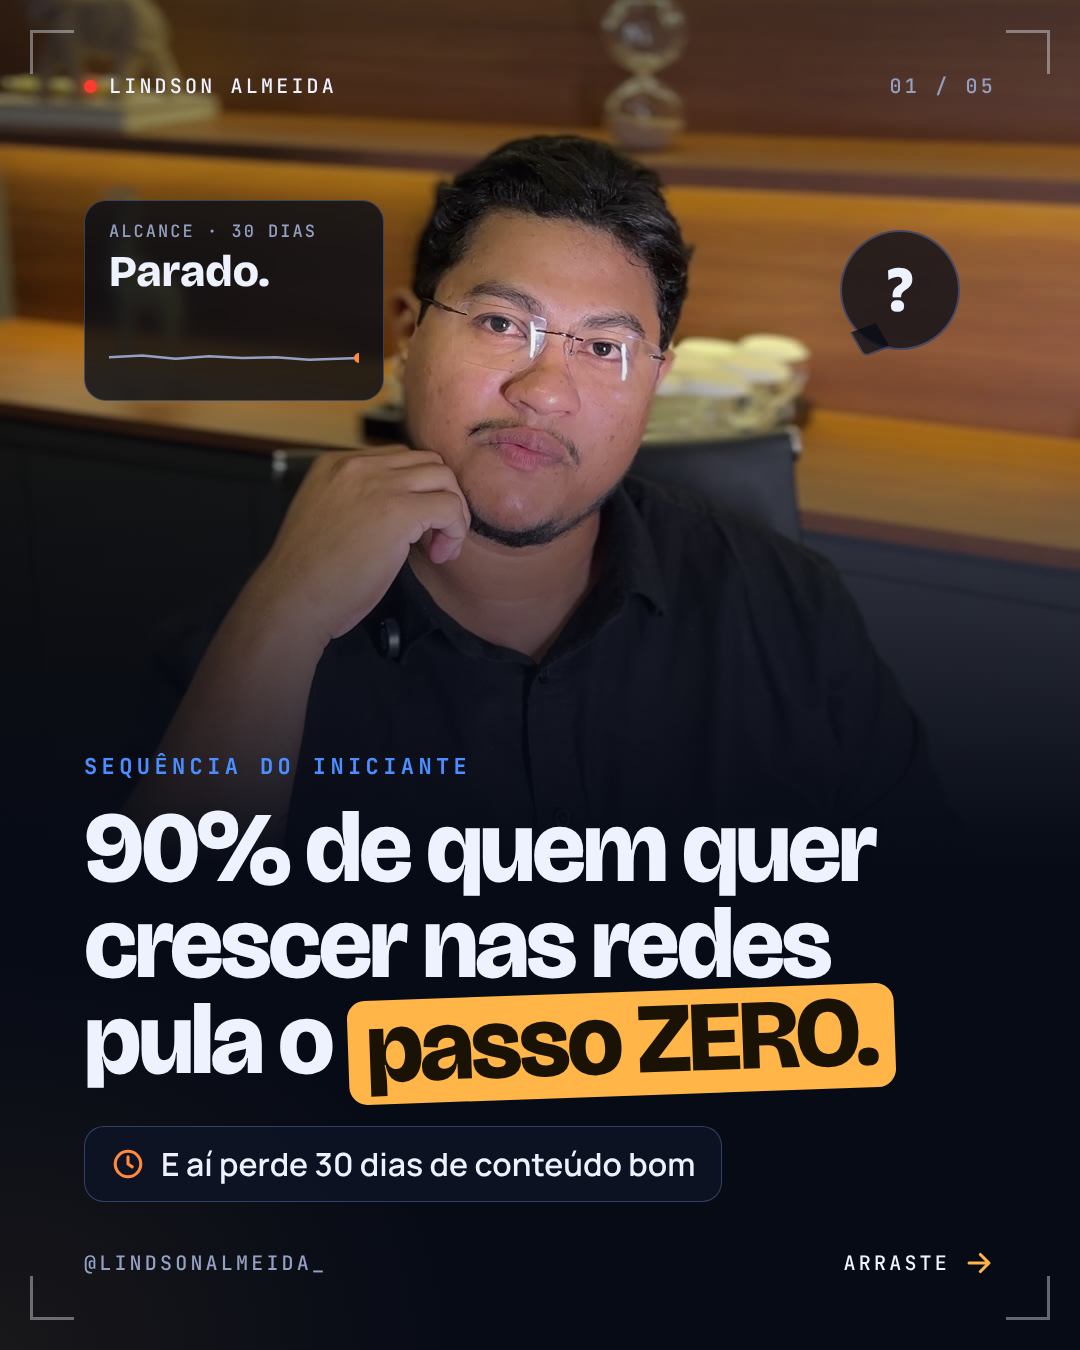
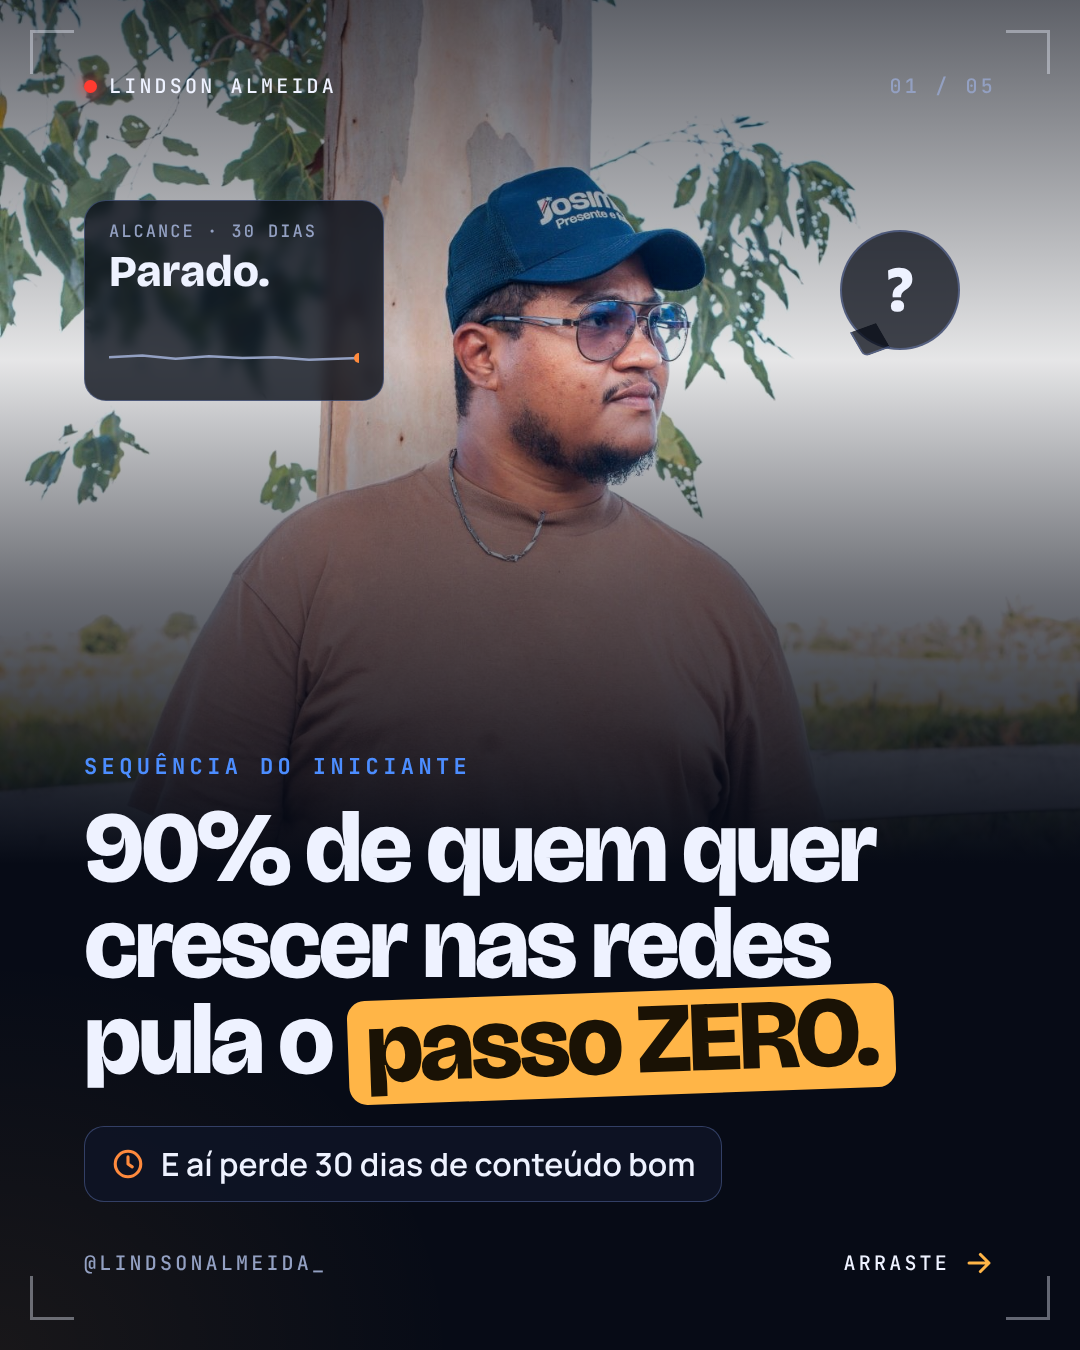
Carousel 01: use outdoor photos on cover and closing slides
Claude-Session: https://claude.ai/code/session_01ALzBWb67fmDAT6pS6iLeWq

diff --git a/conteudo/identidade-01/carrossel-01-sequencia-do-iniciante/fonte/carrossel.html b/conteudo/identidade-01/carrossel-01-sequencia-do-iniciante/fonte/carrossel.html
@@ -56,8 +56,8 @@
 
   /* ── 1 · Capa ── */
   .s1 .photo { height: 900px; }
-  .s1 .photo img { object-position: 50% 62%; filter: saturate(.85) contrast(1.05); }
-  .s1 .photo::after { background: linear-gradient(0deg, var(--ink) 4%, rgba(7,11,22,.55) 34%, rgba(7,11,22,.05) 62%, rgba(7,11,22,.5) 100%); }
+  .s1 .photo img { object-position: 50% 4%; filter: saturate(.9) contrast(1.05); }
+  .s1 .photo::after { background: linear-gradient(0deg, var(--ink) 4%, rgba(7,11,22,.6) 34%, rgba(7,11,22,.1) 60%, rgba(7,11,22,.65) 100%); }
   .s1 .body { justify-content: flex-end; }
   .s1 h1 { font-size: 100px; }
   .s1 .zero { display: inline-block; background: var(--sun); color: var(--sun-ink); padding: 0 18px 8px; border-radius: 18px; transform: rotate(-2deg); }
@@ -119,8 +119,8 @@
   /* ── 5 · Fechamento ── */
   .s5::before { background: radial-gradient(700px 620px at 50% 26%, rgba(47,208,122,.35), transparent 70%), radial-gradient(900px 700px at 100% 0%, rgba(76,141,255,.14), transparent 65%); }
   .s5 .photo { height: 900px; }
-  .s5 .photo img { object-position: 50% 26%; }
-  .s5 .photo::after { background: linear-gradient(0deg, var(--ink) 3%, rgba(7,11,22,.45) 30%, rgba(7,11,22,0) 55%), linear-gradient(180deg, rgba(47,208,122,.28), transparent 40%); }
+  .s5 .photo img { object-position: 27% 50%; }
+  .s5 .photo::after { background: linear-gradient(0deg, var(--ink) 3%, rgba(7,11,22,.45) 30%, rgba(7,11,22,0) 55%), linear-gradient(180deg, rgba(7,11,22,.55), transparent 30%); }
   .s5 .okchip { position: absolute; z-index: 3; left: 84px; top: 140px; display: inline-flex; align-items: center; gap: 14px; padding: 16px 24px; border-radius: 999px; background: rgba(7,11,22,.8); border: 2px solid var(--ok); font: 700 24px/1 var(--f-mono); letter-spacing: .12em; color: var(--ok); backdrop-filter: blur(6px); }
   .s5 .okchip svg { width: 28px; height: 28px; }
   .s5 .body { justify-content: flex-end; gap: 30px; }
@@ -140,7 +140,7 @@
 
 <!-- ═════ 1 · CAPA ═════ -->
 <section class="s s1" id="c1">
-  <div class="photo"><img src="pensando.jpg" alt=""></div>
+  <div class="photo"><img src="capa-pensativo.jpg" alt=""></div>
   <div class="vf"><i class="a"></i><i class="b"></i><i class="c"></i><i class="d"></i></div>
   <div class="graph"><span>Alcance · 30 dias</span><strong>Parado.</strong>
     <svg viewBox="0 0 300 70" fill="none"><path d="M0 52 L40 50 L80 54 L120 51 L160 53 L200 52 L240 55 L300 53" stroke="#93A0C2" stroke-width="3" stroke-linecap="round" stroke-linejoin="round"/><circle cx="300" cy="53" r="6" fill="#FF8A3D"/></svg></div>
@@ -225,7 +225,7 @@
 
 <!-- ═════ 5 · FECHAMENTO ═════ -->
 <section class="s s5" id="c5">
-  <div class="photo"><img src="ok.jpg" alt=""></div>
+  <div class="photo"><img src="fecho-confiante.jpg" alt=""></div>
   <div class="vf"><i class="a"></i><i class="b"></i><i class="c"></i><i class="d"></i></div>
   <span class="okchip"><svg viewBox="0 0 24 24" fill="none" stroke="currentColor" stroke-width="2.6" stroke-linecap="round" stroke-linejoin="round"><path d="M5 12l5 5L20 7"/></svg>TUDO VERDE</span>
   <div class="in">
